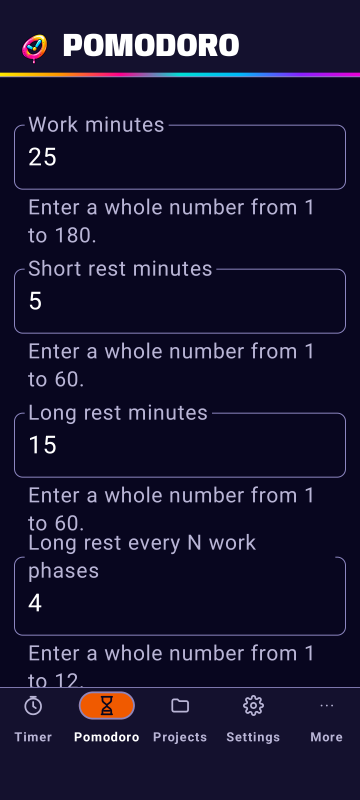
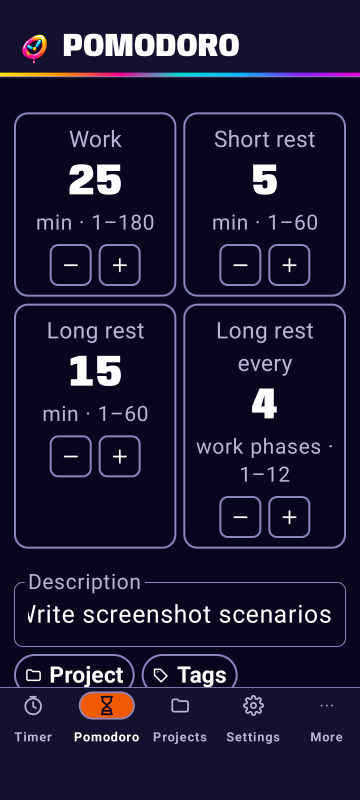
test: record stepper card screenshot references
Re-record the Pomodoro idle captures with the stepper grid, and add
captures of a limit error, the one-column form in a narrow window and
the Settings defaults dialog, in both themes at normal and largest
font. Recorded and reviewed on tokkl-api36.

Describe the stepper input in the PRD's W3 and G3 and add its type
role to the visual direction.

Refs: #27

Changed region(s): [[0.0306, 0.125, 0.9778, 0.875], [0.9472, 0.1562, 0.9778, 0.1875]]

diff --git a/app/src/androidTest/java/com/github/e0ipso/tokkl/ui/screenshot/ScreenshotTest.kt b/app/src/androidTest/java/com/github/e0ipso/tokkl/ui/screenshot/ScreenshotTest.kt
@@ -77,9 +77,11 @@ import com.github.e0ipso.tokkl.picker.Picked
 import com.github.e0ipso.tokkl.pomodoro.PomodoroAlarmContent
 import com.github.e0ipso.tokkl.pomodoro.PomodoroAlarmState
 import com.github.e0ipso.tokkl.pomodoro.PomodoroContent
+import com.github.e0ipso.tokkl.pomodoro.PomodoroDefaults
 import com.github.e0ipso.tokkl.pomodoro.PomodoroLengths
 import com.github.e0ipso.tokkl.pomodoro.PomodoroPageState
 import com.github.e0ipso.tokkl.pomodoro.heldSession
+import com.github.e0ipso.tokkl.pomodoro.lengthCardMatcher
 import com.github.e0ipso.tokkl.pomodoro.ring
 import com.github.e0ipso.tokkl.projects.ProjectsActions
 import com.github.e0ipso.tokkl.projects.ProjectsContent
@@ -143,6 +145,8 @@ import org.junit.rules.RuleChain
  * server's data, its port or its certificate. A capture holds the app's window, the dialog's or
  * the More sheet's, never the status bar. Two captures force a wider window: the List view beside
  * the navigation rail on a medium one, and the entry form beside the history on an expanded one.
+ * A third forces a narrow one, the Pomodoro form with its cards in one column. Every Pomodoro
+ * form and Settings dialog capture runs in all four classes; none is left out of a configuration.
  *
  * The references are in app/src/androidTest/assets/screenshots, recorded on tokkl-api36, since
  * density and system fonts change the pixels. They run only on its Android version, API 36: every
@@ -283,8 +287,49 @@ abstract class ScreenshotTest(private val dark: Boolean, private val fontScale: 
     @SignedOut
     @Test
     fun pomodoroIdle() = showPomodoro(IDLE_POMODORO) {
-        composeRule.awaitText(string(R.string.pomodoro_work_minutes))
+        awaitLengthCards()
         assertScreen("pomodoro-idle")
+    }
+
+    /**
+     * A Work draft of 200, over the 180 limit: its card turns danger and says `max 180`, and Start
+     * stays off. The state carries the draft, so nothing is typed and no cursor shows.
+     */
+    @SignedOut
+    @Test
+    fun pomodoroLimitError() = showPomodoro(IDLE_POMODORO.copy(lengths = IDLE_POMODORO.lengths.copy(work = "200"))) {
+        awaitLengthCards()
+        composeRule.onNode(hasText(string(R.string.stepper_limit_max, PomodoroDefaults.WORK_MINUTES.last)), useUnmergedTree = true)
+            .assertIsDisplayed()
+        assertScreen("pomodoro-limit-error")
+    }
+
+    /**
+     * The start form in a 320dp window: the form is narrower than 360dp, so the four cards sit in
+     * one column. The phone's own window is wider, which gives the two columns of [pomodoroIdle].
+     */
+    @SignedOut
+    @Test
+    fun pomodoroNarrow() = showPomodoro(IDLE_POMODORO, window = NARROW_WINDOW) {
+        awaitLengthCards()
+        assertScreen("pomodoro-narrow")
+    }
+
+    /**
+     * The Work default's dialog in Settings, opened from its row. The dialog holds one stepper
+     * card, and the capture copies the dialog's own window.
+     */
+    @Test
+    fun pomodoroDefaultDialog() {
+        launchApp {
+            openSettings()
+            composeRule.onNode(hasText(string(R.string.pomodoro_work_minutes)) and hasClickAction())
+                .performScrollTo()
+                .performSemanticsAction(SemanticsActions.OnClick)
+            composeRule.awaitText(string(R.string.settings_pomodoro_edit))
+            awaitLengthCards()
+            assertDialog("pomodoro-default-dialog")
+        }
     }
 
     /** The bottom of the form keeps its entry controls and Start visible at font scale 2.0. */
@@ -511,8 +556,17 @@ abstract class ScreenshotTest(private val dark: Boolean, private val fontScale: 
         }
     }
 
-    private fun showPomodoro(state: PomodoroPageState, steps: () -> Unit) {
-        show({
+    /** Waits for the first stepper card, since the cards show a short label no other text repeats. */
+    private fun awaitLengthCards() {
+        val work = string(R.string.pomodoro_card_work)
+        composeRule.waitUntil("the $work stepper card shows", TIMEOUT_MS) {
+            composeRule.onAllNodes(lengthCardMatcher(work)).fetchSemanticsNodes().isNotEmpty()
+        }
+    }
+
+    /** Shows [state] in a window of [window] when given, else in the device's own. */
+    private fun showPomodoro(state: PomodoroPageState, window: DpSize? = null, steps: () -> Unit) {
+        val page = @Composable {
             SignedInFrame(current = TopLevelPage.POMODORO, onOpen = {}, pomodoroRunning = state.pomodoro != null) {
                 PomodoroContent(
                     state = state,
@@ -520,6 +574,9 @@ abstract class ScreenshotTest(private val dark: Boolean, private val fontScale: 
                     clock = TODAY,
                 )
             }
+        }
+        show({
+            if (window == null) page() else DeviceConfigurationOverride(DeviceConfigurationOverride.WindowSize(window)) { page() }
         }) {
             composeRule.awaitText(string(R.string.pomodoro_title))
             steps()
@@ -656,6 +713,9 @@ abstract class ScreenshotTest(private val dark: Boolean, private val fontScale: 
 
         /** An unfolded foldable or a small tablet held upright, a medium width. */
         val MEDIUM_WINDOW = DpSize(700.dp, 1000.dp)
+
+        /** A small phone, narrow enough for a one-column Pomodoro form, tall enough for its four cards. */
+        val NARROW_WINDOW = DpSize(320.dp, 1000.dp)
 
         /** A tablet held sideways, an expanded width. */
         val EXPANDED_WINDOW = DpSize(1280.dp, 800.dp)

diff --git a/docs/PRD.md b/docs/PRD.md
@@ -75,7 +75,7 @@ Decisions:
 - **Components.** Material 3 through Compose Material 3, the official Material toolkit for Jetpack Compose.
 - **Colour.** Always Tokkl's palette, never the wallpaper. Tokkl's Spectrum palette, from the hues of the wordmark and the logo. Light theme: a warm white background, white surfaces, ink text and borders, a hot orange primary fill with a darker orange for primary text, a yellow fill for the selected segment, cyan secondary, hot pink for the running state and sky for billable. Dark theme: the wordmark's ink as background, deep indigo surfaces, white text and the neon counterparts. The source of truth is the colour tokens in `../tokkl/packages/web/src/styles.css`. Dynamic color is off, at most an opt-in setting.
 - **Type.** Anybody for the running clock, totals and headings, bundled with the app. Tokkl already ships it under the SIL Open Font License 1.1 (`../tokkl/packages/web/public/fonts/OFL.txt`). Everything else uses the system font.
-- **Spacing and type scale.** Spacing is 4, 8, 12, 16, 20, 24, 32 and 48dp, Tokkl's `--space-1` to `--space-8`. Screens keep a 16dp margin on compact widths and 24dp on medium and wider, and content is capped at 600dp. Anybody, always at width 85, sets the page title (28sp, weight 900, uppercase), clock (36sp, 800), totals (28sp, 800), day total (22sp, 800), day header (17sp, 900, uppercase), card title (18sp, 800) and section heading (16sp, 800). The system font sets body text at 16, 14 and 12sp, the small-caps label at 12sp weight 700 and the button label at 14sp weight 700. A monospace role sets fingerprints and codes.
+- **Spacing and type scale.** Spacing is 4, 8, 12, 16, 20, 24, 32 and 48dp, Tokkl's `--space-1` to `--space-8`. Screens keep a 16dp margin on compact widths and 24dp on medium and wider, and content is capped at 600dp. Anybody, always at width 85, sets the page title (28sp, weight 900, uppercase), clock (36sp, 800), totals (28sp, 800), day total (22sp, 800), stepper value (44sp, 900, tabular figures), day header (17sp, 900, uppercase), card title (18sp, 800) and section heading (16sp, 800). The system font sets body text at 16, 14 and 12sp, the small-caps label at 12sp weight 700 and the button label at 14sp weight 700. A monospace role sets fingerprints and codes.
 - **Wordmark.** The owner's graffiti artwork, shipped as an image with the content description "Tokkl" for TalkBack, so it uses no font. It appears on the sign-in screen and the launch splash only, never in a page header or a top bar. In dark mode a 1dp halo in `--wordmark-halo` (#B9B5D6) traces its edge, because the artwork's navy outline matches the background there. Light mode draws no halo. See `../tokkl/docs/PRD.md`, Visual direction, Typeface.
 - **Logo.** The logo appears as the launcher icon and before every page title above the rainbow underline, never beside the wordmark. In page headers it is decorative, so TalkBack reads only the title. The wordmark's "o" is a clock, but that clock is a letter of the wordmark, not the logo.
 - **Texture.** Gradients or vectors only, never raster images, and never behind inputs or data. See `../tokkl/docs/PRD.md`, Visual direction, Texture.
@@ -192,7 +192,7 @@ The first release is feature complete: it ships every requirement below, so they
 |---|---|
 | G1 | Theme: light, dark, or follow the system. |
 | G2 | Opt-in dynamic color. |
-| G3 | The four Pomodoro defaults that the session's start form begins from (W3): work minutes (`pomodoro_focus_interval_in_minutes`, default 25, 1 to 180), short rest minutes (`pomodoro_break_interval_in_minutes`, 5, 1 to 60), long rest minutes (`pomodoro_long_break_interval_in_minutes`, 15, 1 to 60) and long rest every N work phases (`pomodoro_long_break_every`, 4, 1 to 12). The start form sends its four values to the server as this session's overrides, so a default changed later does not touch a session that runs. On Tokkl the defaults live in `/me/preferences` and the web app shares them. Toggl Track has no such keys, so there they are kept on the phone alone, with the same defaults and ranges. Toggl Track has no sessions either (section 8.3). |
+| G3 | The four Pomodoro defaults that the session's start form begins from (W3): work minutes (`pomodoro_focus_interval_in_minutes`, default 25, 1 to 180), short rest minutes (`pomodoro_break_interval_in_minutes`, 5, 1 to 60), long rest minutes (`pomodoro_long_break_interval_in_minutes`, 15, 1 to 60) and long rest every N work phases (`pomodoro_long_break_every`, 4, 1 to 12). The start form sends its four values to the server as this session's overrides, so a default changed later does not touch a session that runs. On Tokkl the defaults live in `/me/preferences` and the web app shares them. Toggl Track has no such keys, so there they are kept on the phone alone, with the same defaults and ranges. Toggl Track has no sessions either (section 8.3). Settings keeps one summary row per default; a row opens a dialog with Save and Cancel that holds that default's stepper card, with the same card, ranges and rules as W3. |
 
 | G4 | Long-running timer reminders: an on/off switch and hours from 1 to 168, enabled at 8 hours by default (N7). These account settings work offline and clear on sign-out. |
 
@@ -214,7 +214,7 @@ The owner asked for a Pomodoro session on 2026-10-20 and made the decisions belo
 |---|---|
 | W1 | Pomodoro is a mode the user picks on its own page, apart from the regular timer. There is no global on/off preference. |
 | W2 | The server applies these rules (Tokkl T13) and the phone runs none; it shows the state the server sends. Phases run work, then a short rest, or a long rest after every Nth work phase, then work again. A phase changes only when the user confirms it with Next phase, on any signed-in device. Next phase before the planned end skips the rest of the phase. After the planned length the phase counts overtime until the user confirms. Every ended work phase counts toward N, skipped ones too, and the count restarts after a long rest. There are four transitions: work to short rest, short rest to work, work to long rest, and long rest to work. End session works at any time. |
-| W3 | The start form sets this session's work, short rest and long rest minutes and the long rest every N. It begins from the four defaults in G3 and uses their ranges. |
+| W3 | The start form sets this session's work, short rest and long rest minutes and the long rest every N. It begins from the four defaults in G3 and uses their ranges. The form shows four stepper cards, labelled Work, Short rest, Long rest and Long rest every, in a two-column grid when the form is 360dp wide or more and in one column below that. Each card shows its label, the number large and centred, and under it the unit and range (`min · 1–180`, or `work phases` for the long rest interval), with minus and plus buttons. The buttons step by one and stop at the range's ends. The number can still be typed. A value out of range, empty or not a whole number turns the card danger-coloured and names the limit under it (`max 180`, `min 1` or `enter 1–180`), and from such a value a button lands in the range. TalkBack reads each card as one item, such as "Work, 25 minutes, 1 to 180", with Increase and Decrease as actions. |
 | W4 | The entry fields are description, project, task, tags and billable. The user sets them before the start and can edit them during the session. An edit applies to the pomodoro in progress and to later ones. There are no start or stop fields. |
 | W5 | Each pomodoro is one entry. It covers a work phase and the rest after it, from the work start until the user confirms the next work phase or ends the session. Its fields are those of the running entry (`pomodoro.entry_id`), which the server stops when the pomodoro ends, with the Stop and snapping rule of T3 that every v9 stop meets; the phone saves no pomodoro entry itself. A pomodoro too short to keep goes to Trash on the server, and the server reports it as discarded. The phone then says "This pomodoro was too short to save." once for it. |
 | W6 | At each phase's planned end the transition's sound loops until the user confirms the next phase or ends the session. No control only silences it, and it has no time cap. Tokkl generates the four sounds, one per transition, with FFmpeg in `../tokkl`, under MIT and bitexact, and records them in its `docs/sounds/README.md`. Tokkl for Android copies the files. |
